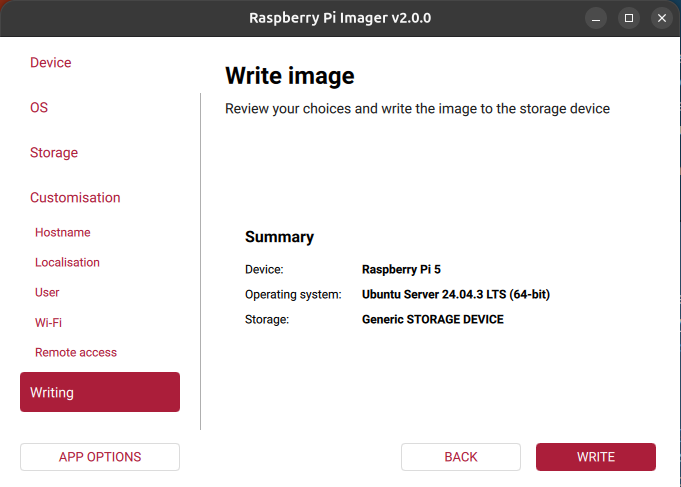
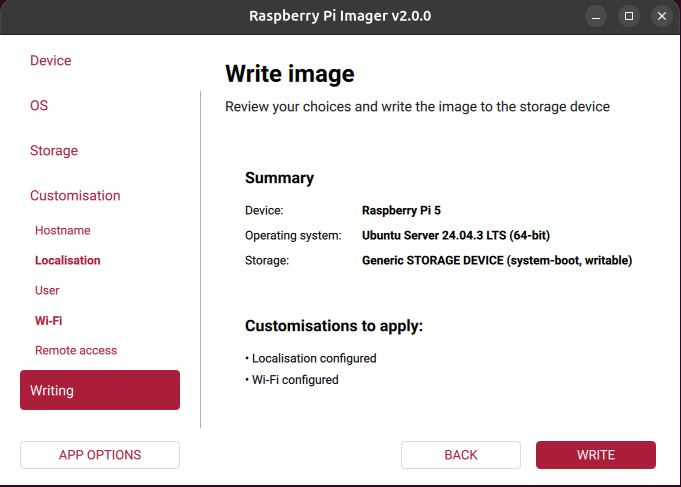
slip in login details page

diff --git a/themes/lores/assets/css/09_article.css b/themes/lores/assets/css/09_article.css
@@ -121,6 +121,10 @@ article section.image-section {
   margin-top: 1em;
 }
 
+article section.image-section p:first-child {
+  margin-top: 0;
+}
+
 @media screen and (max-width: 480px) {
   article aside.user-story {
     grid-template-columns: 1fr;

diff --git a/content/docs/node_stewards/initial_setup/next_bit.md b/content/docs/node_stewards/initial_setup/next_bit.md
@@ -1,0 +1,38 @@
+## Preparing a Generic SD Card
+
+See [Preparing SD Card](./docs/preparing_generic_sd_card.md) to setup a generic SD Card
+for a swarm PI, unless someone else has prepared one for you.
+
+## Customising SD Card for you Site
+
+1. Insert the Generic SD card from the step above into a card reader
+   connected to your computer.
+2. Your computer should detect the card and you should be able to find a new
+   drive in your file manager. On MacOS this will be called "system-boot"
+3. Open the file `user-data` in a text editor and find the line
+   `hostname: raspberrypi`. Change the word `raspberrypi` to a hostname
+   likely to be unique on your local network. If you're setting up a site
+   called `mysite`, we recommend `mysite1` as a hostname (and this will
+   be used as an example in following instructions).
+
+### Optional: Adding WiFi Credentials
+
+This step is only needed if you want to access the Pi over WiFi. For serving web
+apps, it's going to be more efficient and reliable if you can connect the Pi via
+ethernet cable to your router. If you do this, WiFi credentials are not needed.
+
+4. Open up the file `network-config` in a text editor. Find the section
+   with the line `access-points:`. Underneath that, any number of WiFi
+   network details can be added. Note that this file is a text file in
+   the [YAML](https://en.wikipedia.org/wiki/YAML) format. This means that
+   you need to indent sections inside `access-points` by two spaces
+   (not a tab), and use quote marks `""` around your network name if it
+   contains spaces.
+
+## Raspberry Pi first boot
+
+1. Insert a configured SD card into your Raspberry Pi, and connect ethernet,
+   then power
+2. Wait a few minutes, and then you should be able to run `ssh
+pi@mysite1.local` (replace the hostname with whatever hostname you set)
+   with the default password `mbt`

diff --git a/content/docs/node_stewards/initial_setup/sd_card_setup.md b/content/docs/node_stewards/initial_setup/sd_card_setup.md
@@ -61,7 +61,17 @@ Put the SD Card into your card reader, and on this screen select the SD Card you
 
 ### Customisation
 
-This section has a bunch of setup options which can be pretty helpful for setting up a new Pi. Things that are chosen here are specific to a particular Pi though, such as hostname and Wi-Fi password. It's pretty simple to set these later, so we're recommending an approach of leaving these settings alone so that this SD Card remains generic (at least for a given Ubuntu version and Pi model). Press "Skip customisation".
+This section has a bunch of setup options which can be pretty helpful for setting up a new Pi. Things that are chosen here are specific to a particular Pi though, such as hostname and Wi-Fi password. We're going to leave a bunch of this to setup later, but we recommend filling out just the **Localisation** section for now.
+
+Localisation asks you to fill out your:
+
+- **Capital city** (and Country), eg: _Canberra (Australia)_
+- **Time zone**, eg: _Australia/Melbourne_
+- **Keyboard layout**, eg: _au_
+
+One particular reason why it's important to do this is that there are different standards for Wi-Fi in different countries. Presuming your group is all in the same country and timezone, setting this up still leaves your SD card able to be used amongst any of your collaborators.
+
+So, hit "Next" on all of the steps, leaving them blank, except for "Localisation" which you fill out with your local details. Then hit "Next" to move to the next section.
 
 ### Write image
 
@@ -76,6 +86,8 @@ The SD Card is now being prepared. You make way to make a coffee or something, t
 {{< /image-section >}}
 
 When it's done, remove the SD card and close Raspberry Pi Imager.
+
+## Preparing the OS for LoRes Mesh
 
 ## Customising operating system configuration
 

diff --git a/content/docs/node_stewards/initial_setup/raspberry_pi.md b/content/docs/node_stewards/initial_setup/raspberry_pi.md
@@ -1,5 +1,5 @@
 ---
-title: Raspberry Pi Setup
+title: Preparing your Raspberry Pi
 date: 2025-09-03T09:00:00+10:00
 draft: false
 type: docs
@@ -24,7 +24,3 @@ There's no point in powering it up yet, but when you're ready for that, your pow
 ## Next, operating system
 
 The Pi's operating system is stored on the MicroSD card and inserted into the card slot (at the opposite end of the Pi from all the USB ports). In the next section we'll prepare that MicroSD card for use.
-
-{{< todo >}}
-Describe the process of setting up a Raspberry Pi with Ubuntu
-{{< /todo >}}

diff --git a/content/docs/node_stewards/initial_setup/login_details.md b/content/docs/node_stewards/initial_setup/login_details.md
@@ -1,0 +1,10 @@
+---
+title: Your login details
+date: 2025-09-03T09:00:00+10:00
+draft: false
+type: docs
+---
+
+{{< todo >}}
+Choosing a password and setting up a SSH key
+{{< /todo >}}
